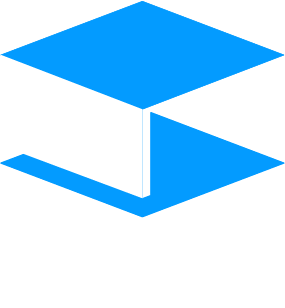
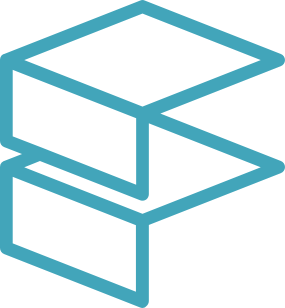
27848 rebranding (#135)
Any instance of the old Finsemble logo has been replaced with the new one.
The primary accent colors were changed to match the new ones.
--primary-accent-2 has been removed. Instances of --primary-accent-2 have been converted to --primary-accent-1. There weren't many of them.
The system tray icon is a modified version of the new logo that has thicker lines. This had to be done otherwise the system tray icon would look dainty and ugly.
Convert splash screen to SVG for high-res screens.  nativeImage.getSize() returns 0,0 for svg, so adjusted to fall back to undefined for defaults

diff --git a/src/components/authentication/oauthResponse.html b/src/components/authentication/oauthResponse.html
@@ -145,7 +145,7 @@
 		<div class="fsbl-auth-top">
 			<img
 				class="fsbl-logo"
-				src="../../assets/img/ciq-banner-black-100x25.png"
+				src="../../assets/img/cosaic-banner-100x20.png"
 				width="100"
 				height="25"
 			/>
